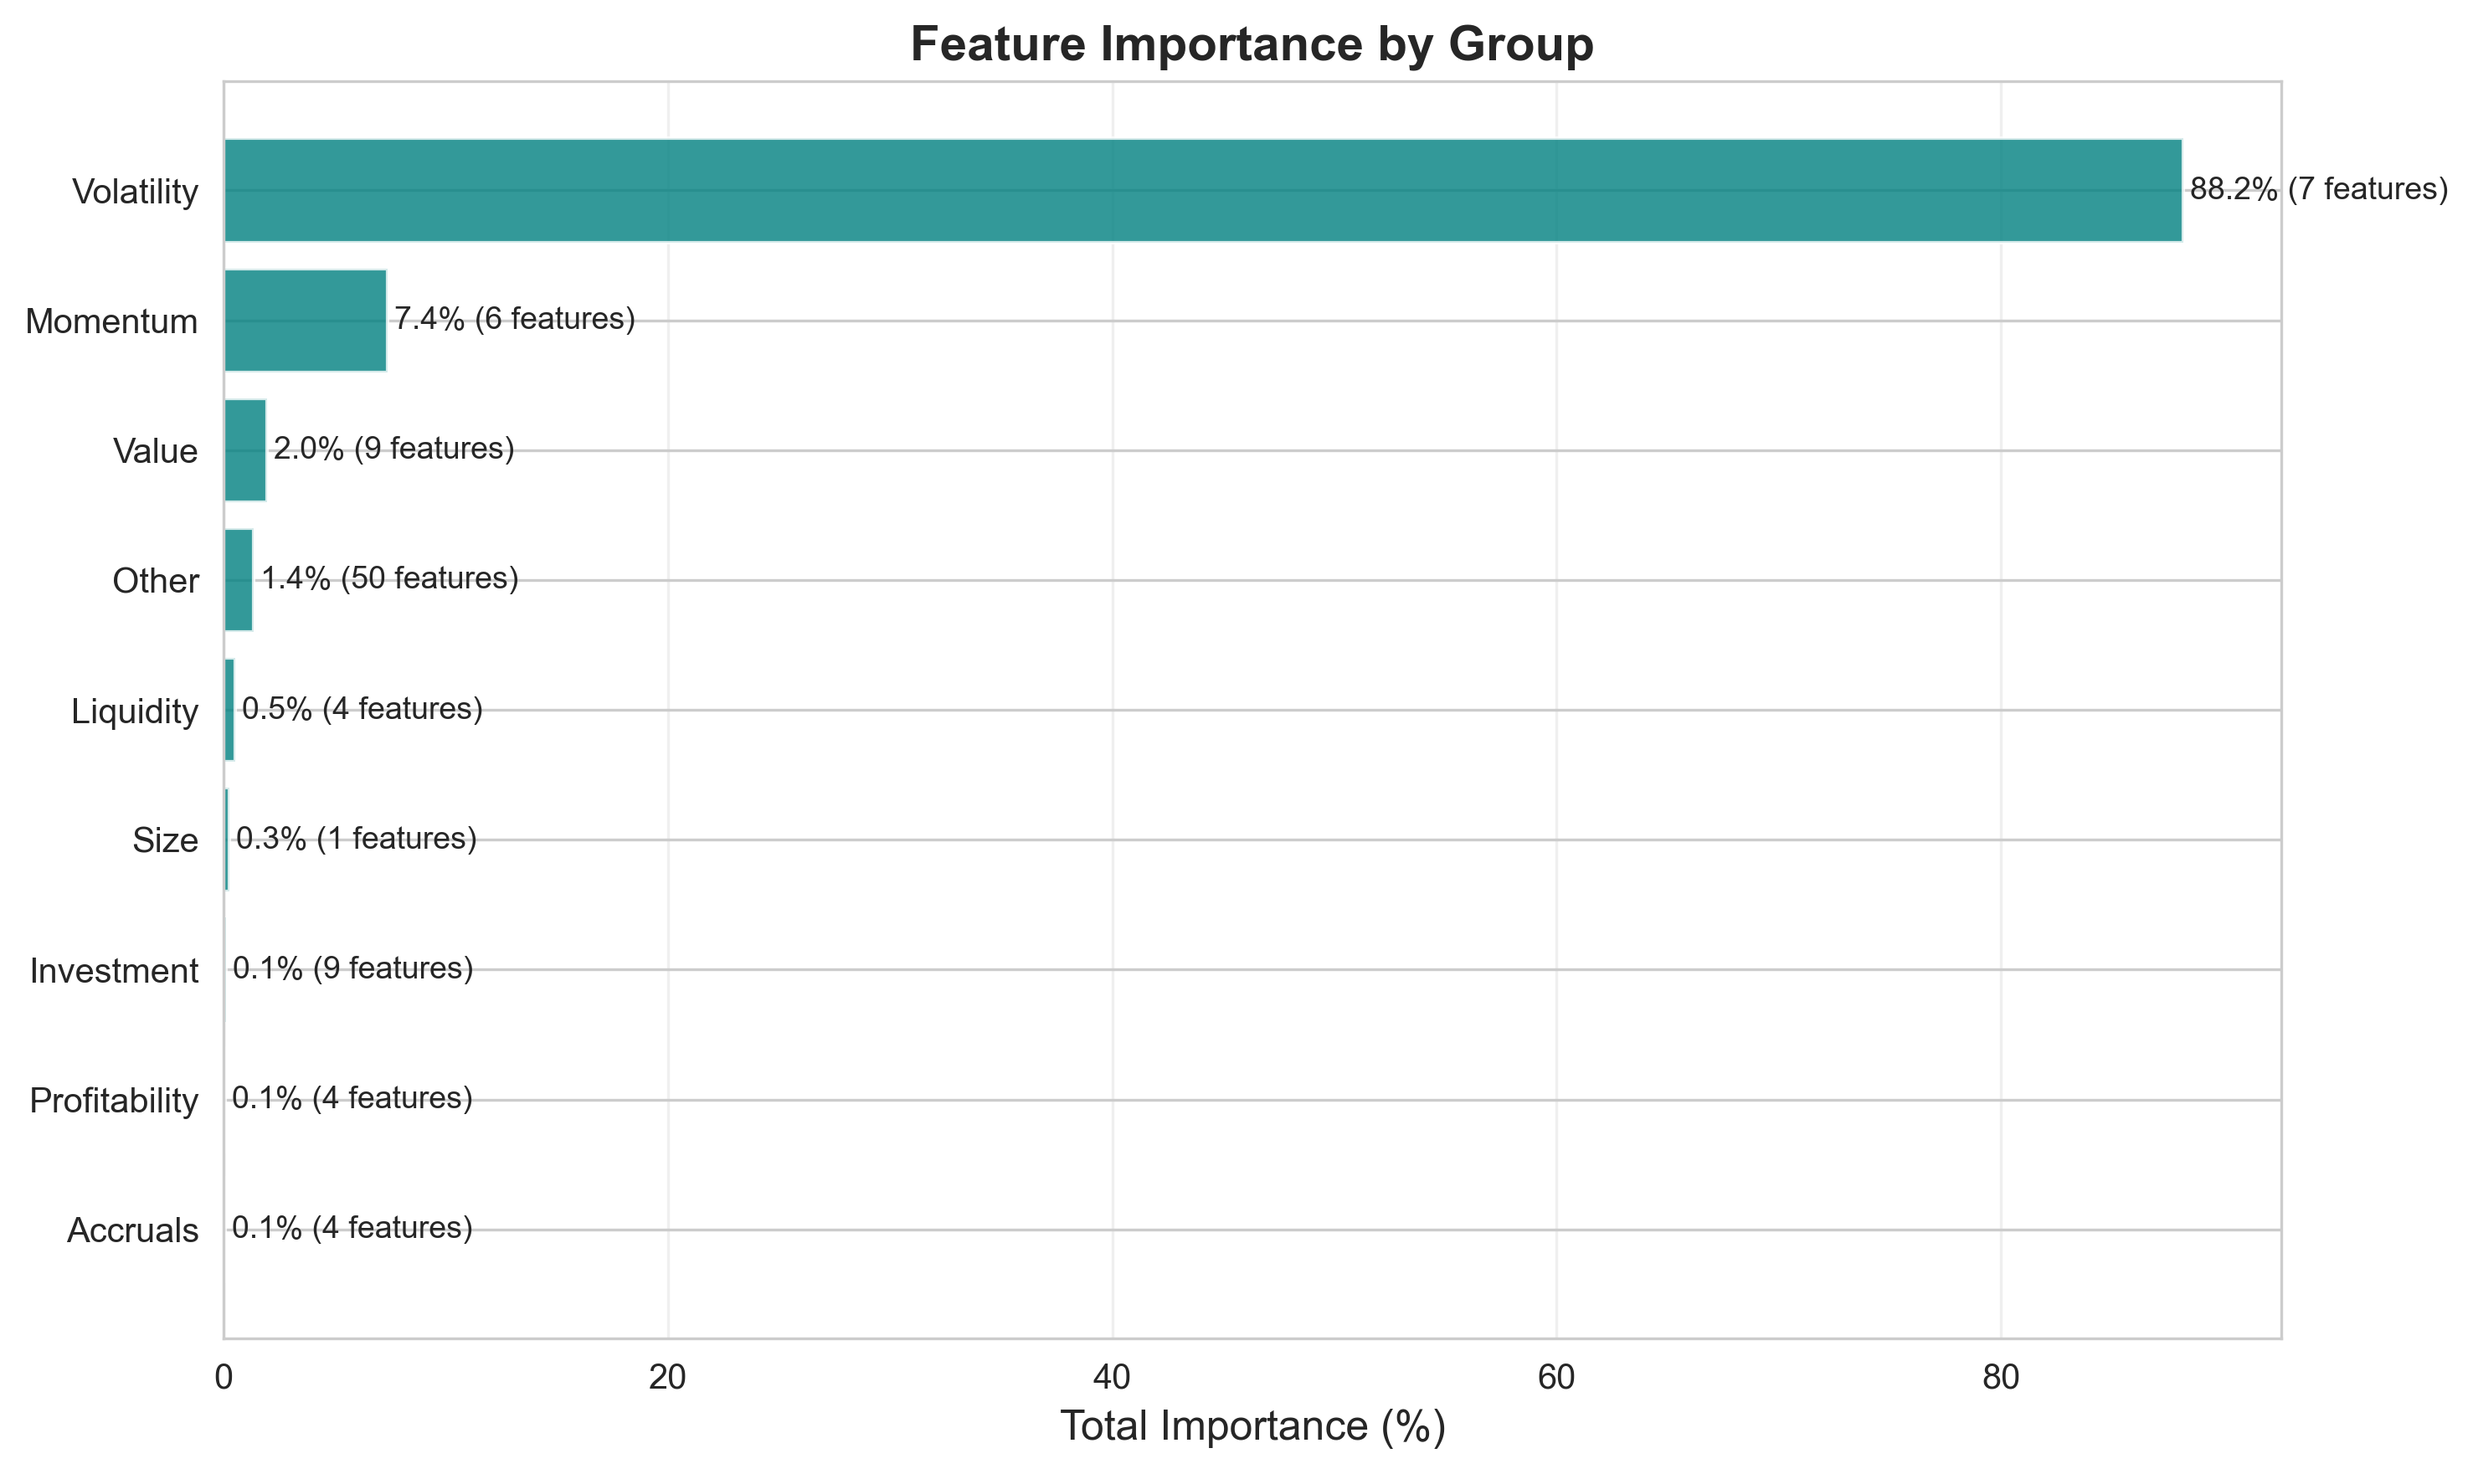
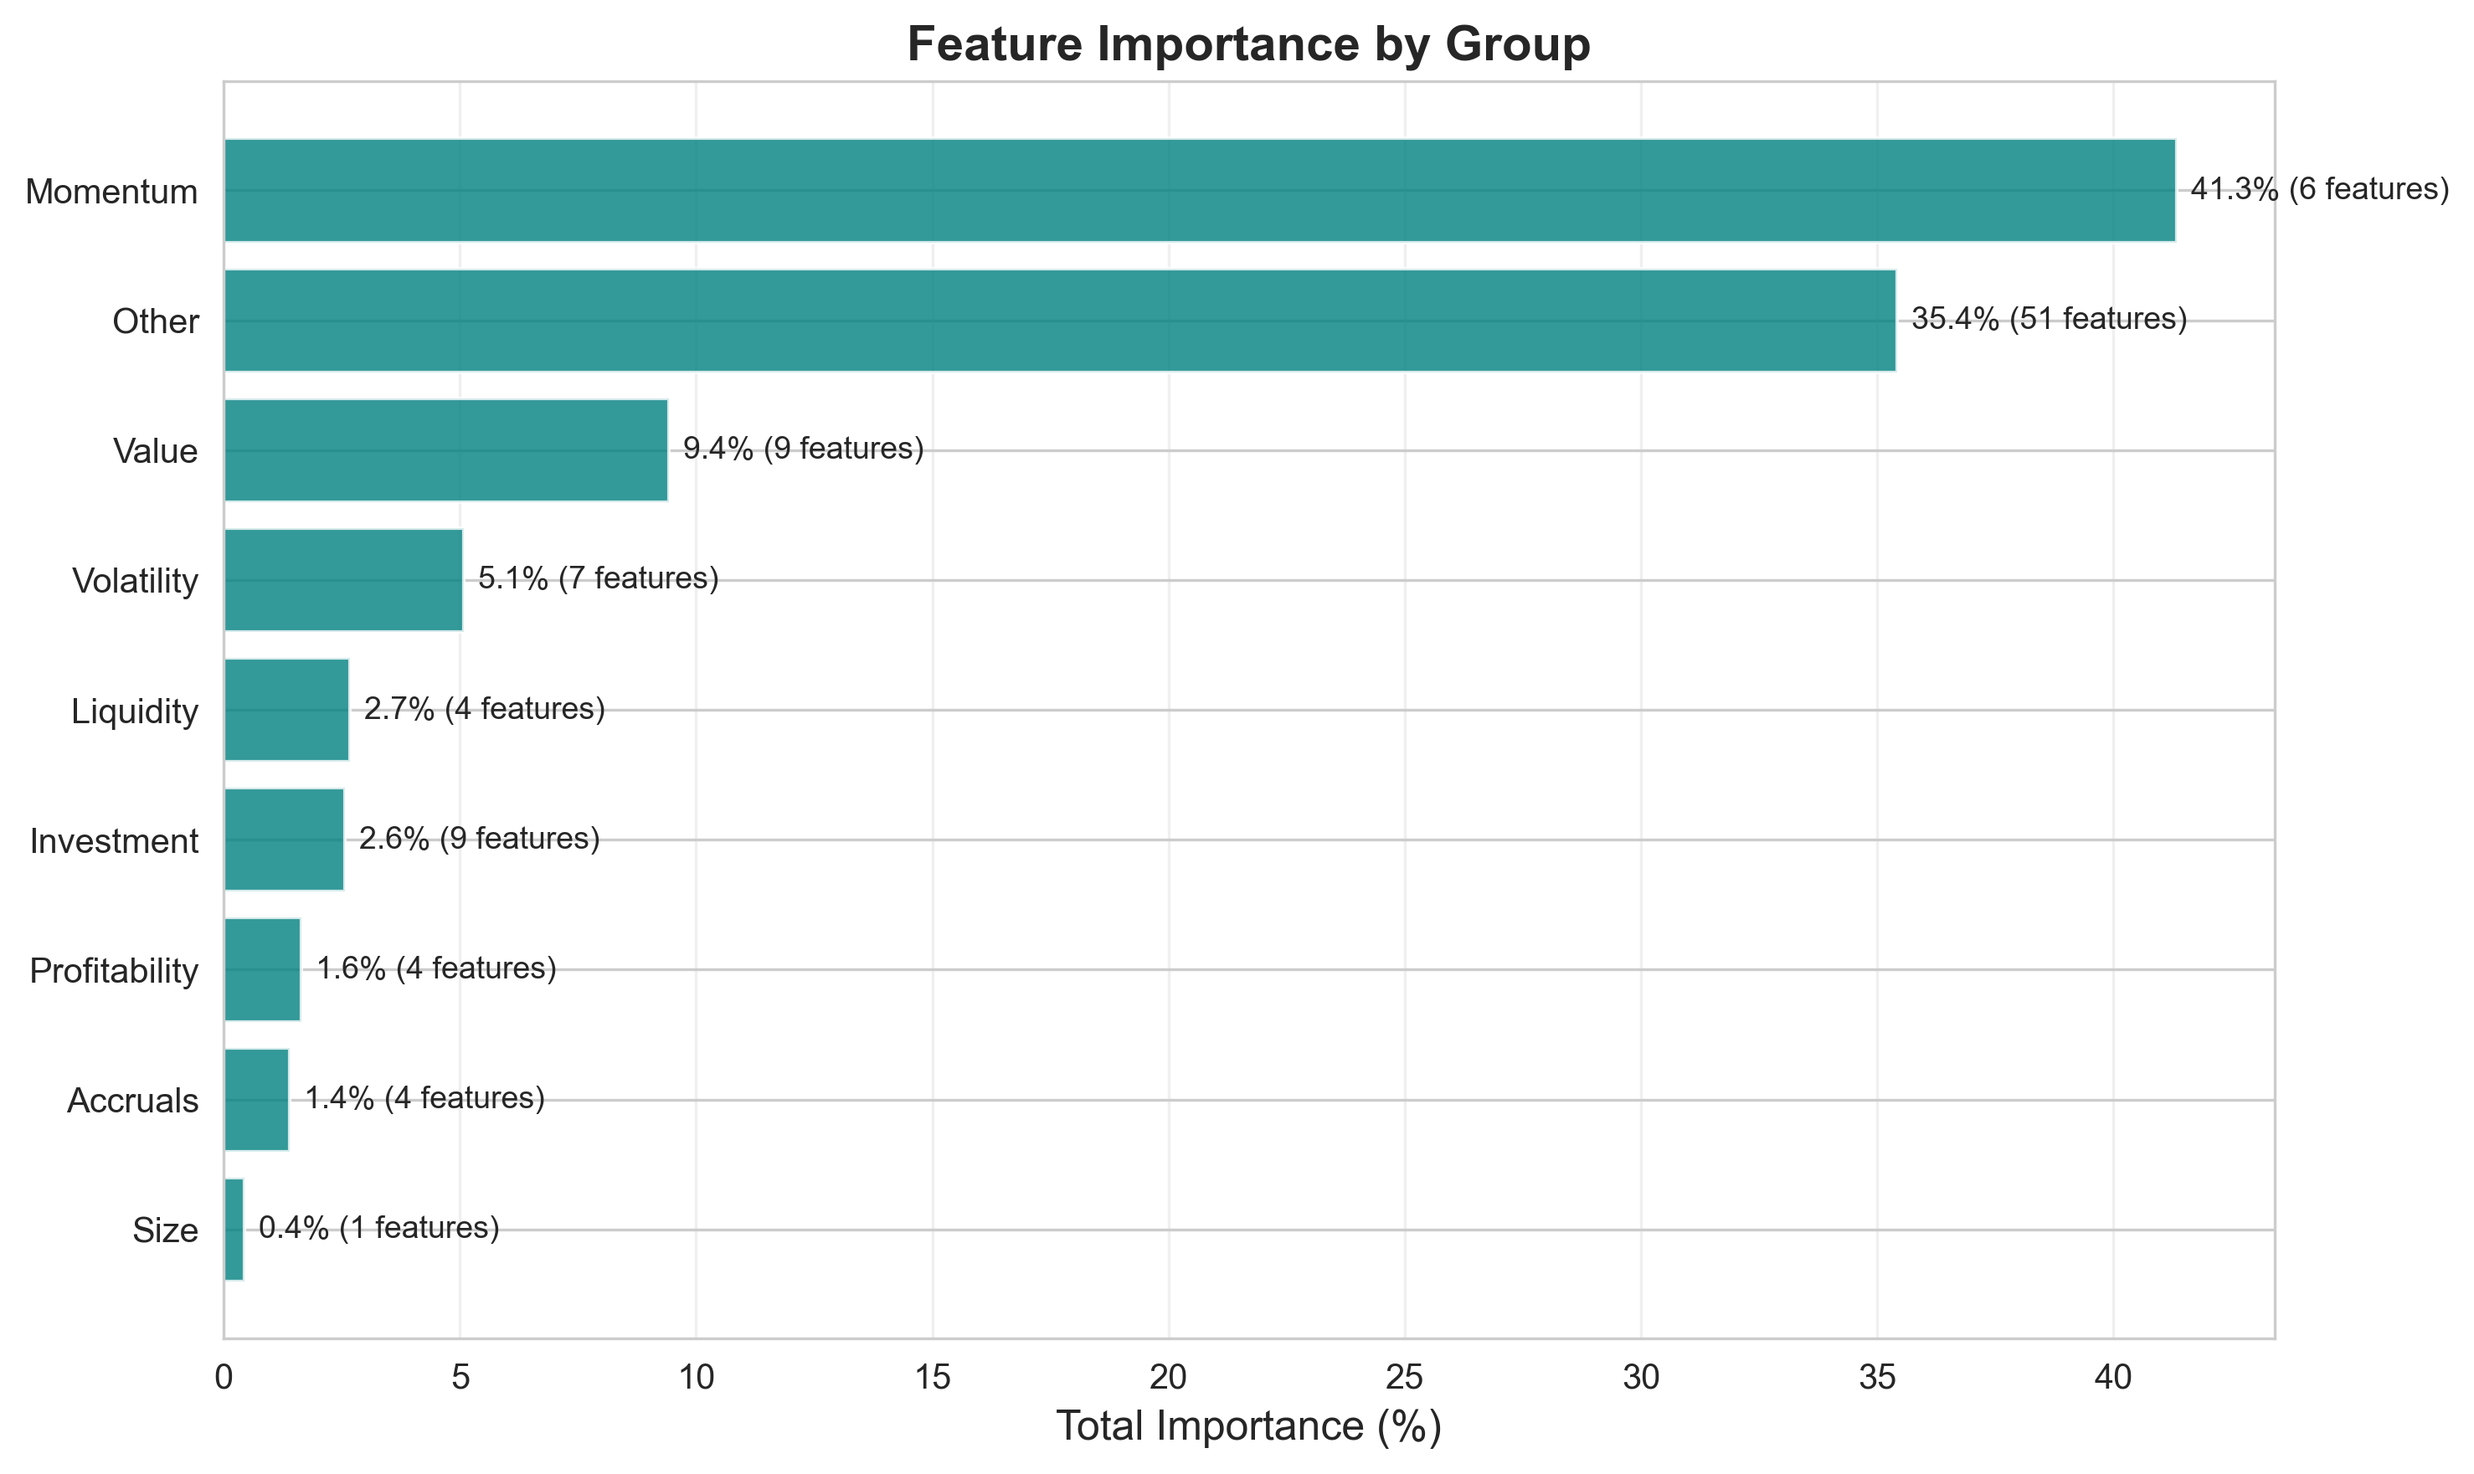
Add feature importance analysis results (note: shows industry features due to synthetic data limitations)

diff --git a/results/tables/feature_importance_top50.tex b/results/tables/feature_importance_top50.tex
@@ -1,0 +1,60 @@
+\begin{table}
+\caption{Top 50 Most Important Features}
+\label{tab:feature_importance}
+\begin{tabular}{lrr}
+\toprule
+Feature & Gain (\%) & Splits (\%) \\
+\midrule
+indmom & 34.28 & 18.68 \\
+herf & 9.86 & 5.69 \\
+mve_ia & 6.58 & 2.03 \\
+sic2 & 3.71 & 2.59 \\
+bm_ia & 3.34 & 2.48 \\
+mom1m & 2.16 & 3.05 \\
+chpmia & 2.08 & 1.81 \\
+retvol & 1.98 & 3.92 \\
+cfp_ia & 1.76 & 1.66 \\
+chmom & 1.38 & 2.25 \\
+mom12m & 1.31 & 1.57 \\
+maxret & 1.20 & 2.89 \\
+age & 1.18 & 1.08 \\
+mom6m & 1.12 & 1.88 \\
+mom36m & 1.09 & 1.53 \\
+pchcapx_ia & 0.97 & 1.17 \\
+std_dolvol & 0.95 & 1.48 \\
+zerotrade & 0.94 & 1.53 \\
+baspread & 0.93 & 1.43 \\
+ep & 0.92 & 0.84 \\
+sp & 0.88 & 0.63 \\
+ill & 0.88 & 1.52 \\
+dolvol & 0.85 & 1.17 \\
+roavol & 0.74 & 0.92 \\
+turn & 0.63 & 1.17 \\
+idiovol & 0.63 & 1.08 \\
+std_turn & 0.62 & 1.30 \\
+bm & 0.61 & 1.08 \\
+secured & 0.57 & 0.56 \\
+salecash & 0.57 & 0.52 \\
+dy & 0.50 & 0.37 \\
+pctacc & 0.50 & 0.66 \\
+pricedelay & 0.50 & 1.18 \\
+chempia & 0.48 & 0.81 \\
+acc & 0.48 & 0.63 \\
+depr & 0.47 & 0.71 \\
+salerec & 0.45 & 0.74 \\
+mvel1 & 0.45 & 0.96 \\
+beta & 0.42 & 0.86 \\
+roaq & 0.40 & 0.62 \\
+lev & 0.39 & 0.56 \\
+tb & 0.37 & 0.75 \\
+orgcap & 0.36 & 0.53 \\
+betasq & 0.34 & 0.76 \\
+saleinv & 0.33 & 0.53 \\
+cfp & 0.33 & 0.63 \\
+securedind & 0.32 & 0.11 \\
+rsup & 0.32 & 0.68 \\
+cashpr & 0.31 & 0.50 \\
+gma & 0.30 & 0.52 \\
+\bottomrule
+\end{tabular}
+\end{table}

diff --git a/results/tables/feature_group_importance.tex b/results/tables/feature_group_importance.tex
@@ -1,0 +1,20 @@
+\begin{table}
+\caption{Feature Importance by Group}
+\label{tab:group_importance}
+\begin{tabular}{lrrr}
+\toprule
+ & gain_pct & split_pct & n_features \\
+group &  &  &  \\
+\midrule
+Momentum & 41.34 & 28.96 & 6 \\
+Other & 35.42 & 36.72 & 51 \\
+Value & 9.43 & 9.94 & 9 \\
+Volatility & 5.09 & 9.72 & 7 \\
+Liquidity & 2.67 & 4.54 & 4 \\
+Investment & 2.56 & 4.38 & 9 \\
+Profitability & 1.64 & 2.62 & 4 \\
+Accruals & 1.39 & 2.15 & 4 \\
+Size & 0.45 & 0.96 & 1 \\
+\bottomrule
+\end{tabular}
+\end{table}
